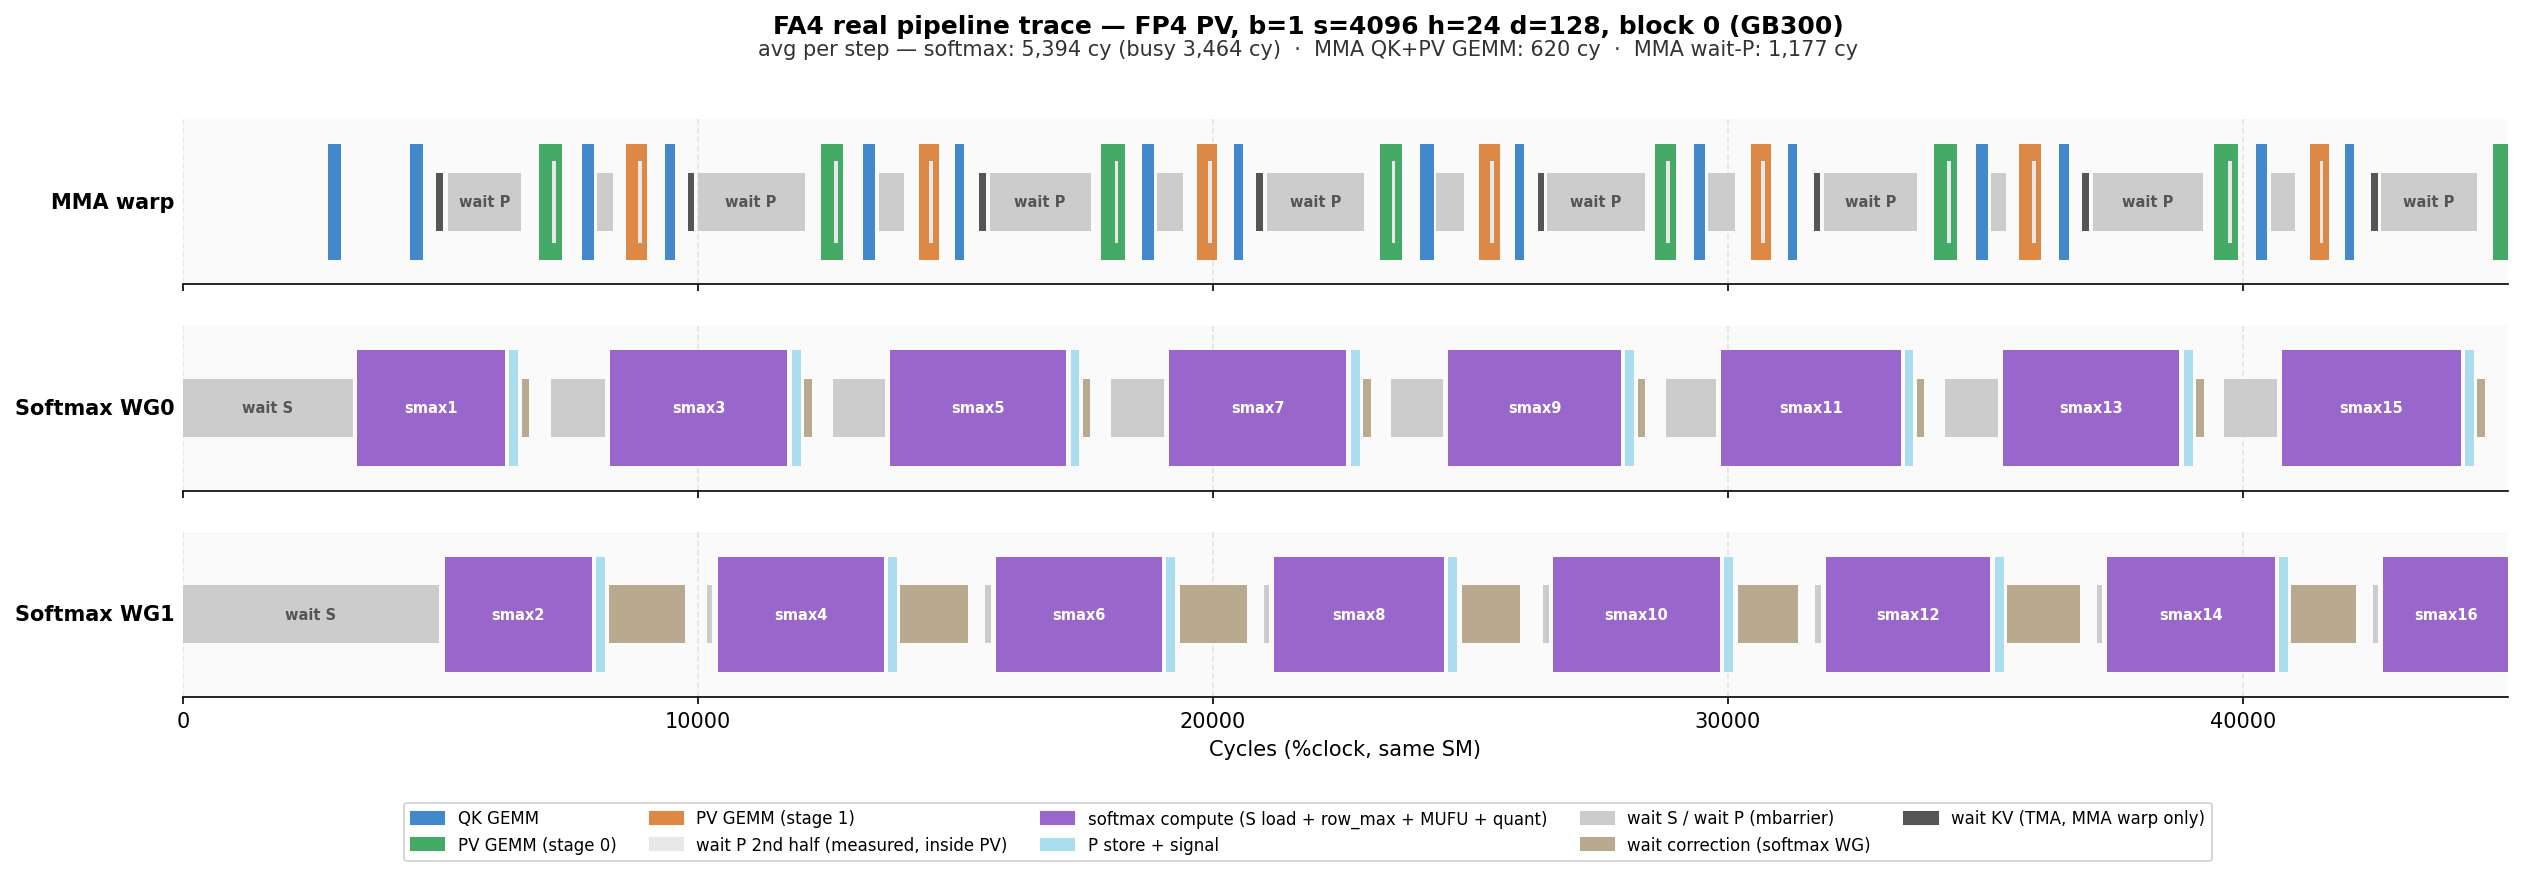
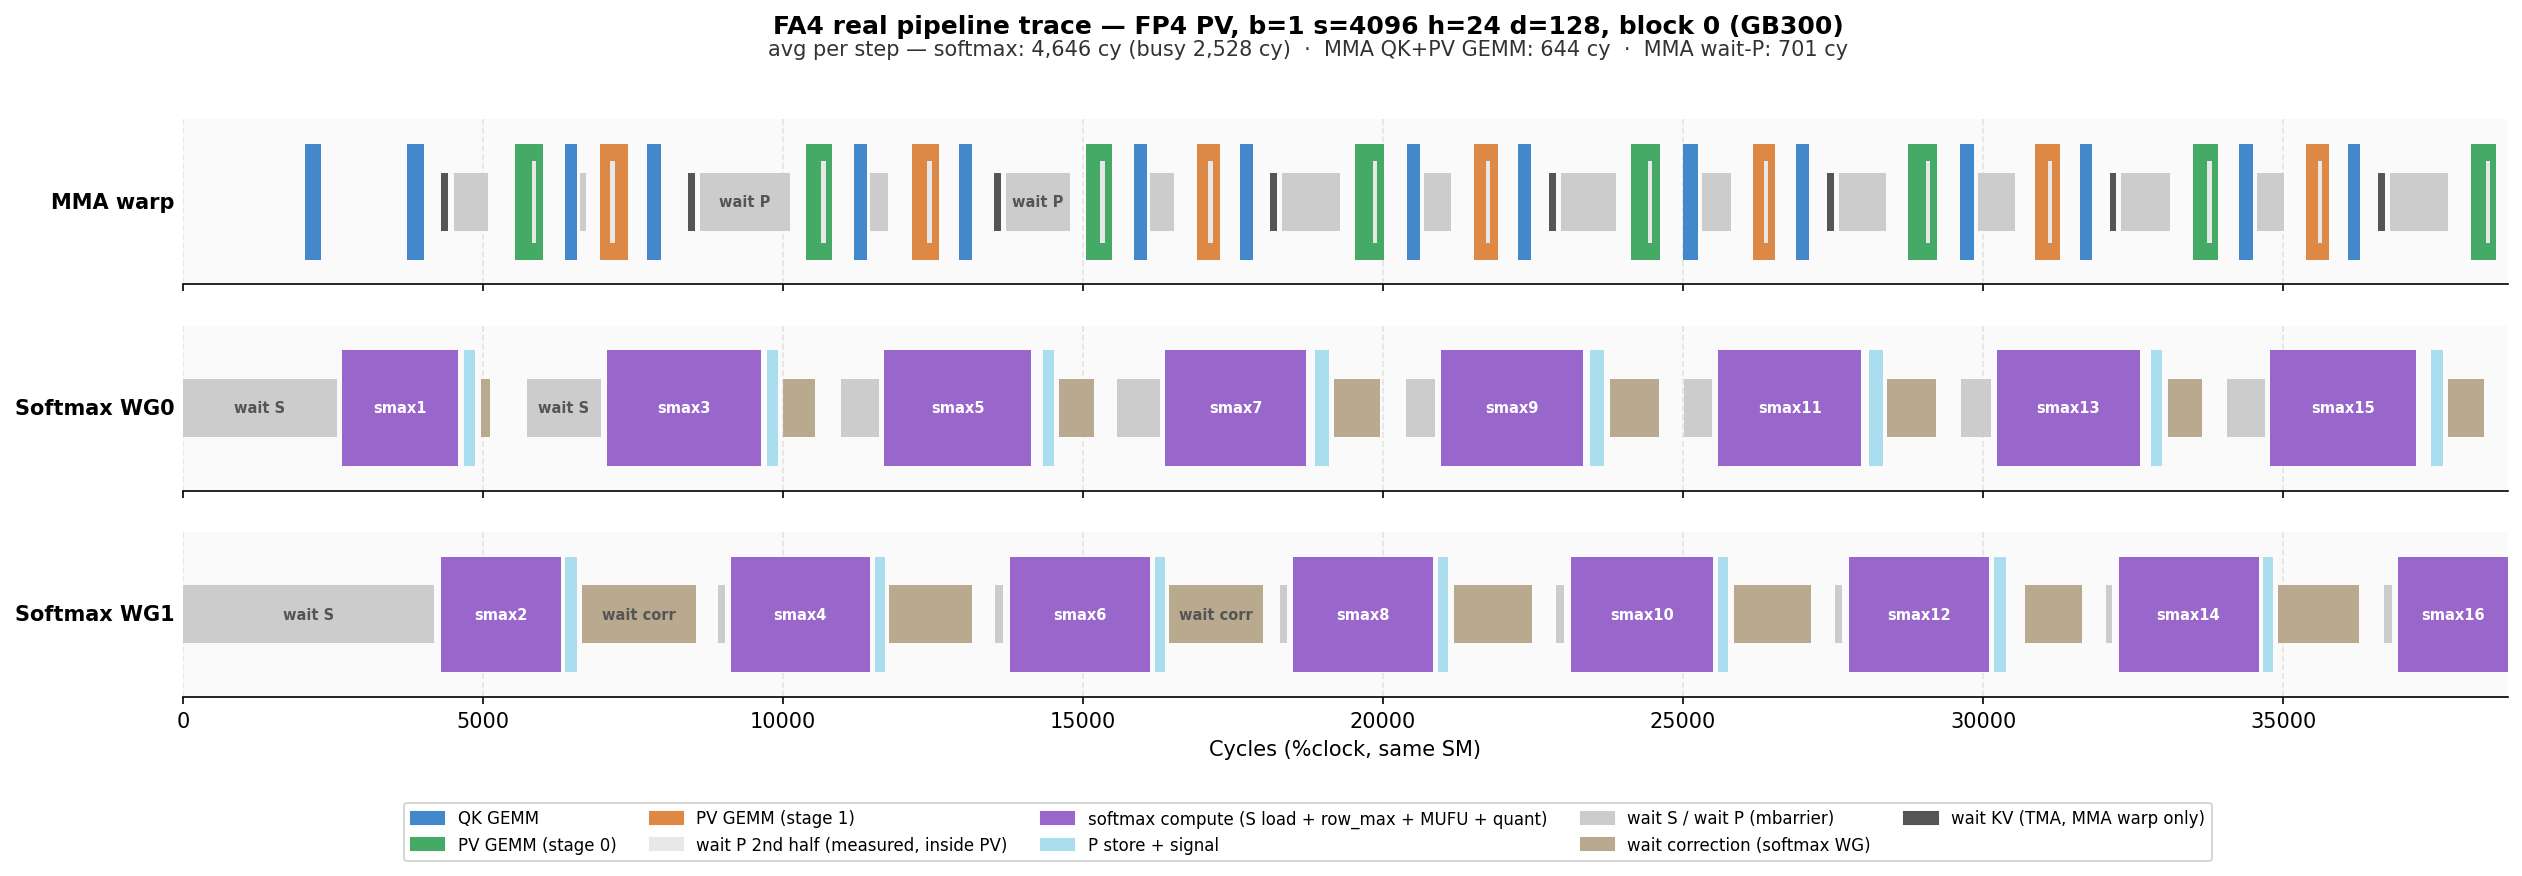
perf: log-domain FP4 quant (+15%) and FP8 P-split 3/4 (+21-24%) on GB300
FP4 PV (_fused_log2_group_quant, default on): exploit exp2 monotonicity to
take the group max on PRE-exp scores and fold the 1/group_max scale into
the exp2 argument — P_i = exp2(s_i - m_g + log2 6), SF_g = exp2(m_g -
log2 6). Deletes all 8 per-group divisions and the post-exp scaling pass,
and shortens the per-group dependency chain to max->sub->ex2. row_sum is
rebuilt as sum_g SF_g * partial_g. 1388 -> 1595 TF at s=32768; error vs
the FP32 reference identical to baseline.

FP8 PV: default P-handoff split raised from 1/2 (a B200 tuning) to 3/4 —
the first P_full now releases the PV MMA after 3/4 of P's store chunks,
matching BF16 PV's split. 1909 -> 2366 TF at s=32768, bitwise-identical;
FP8 PV now beats BF16 PV on B300. The softmax split fraction must stay >=
the GEMM pre_mbar fraction (1/4 violates it and crashes). FP4 split made
tunable too (FA4_FP4_PV_P_SPLIT_NUM/DEN, FA4_FP4_PV_TMEM_STORE_REP) but
is perf-neutral — kept at 1/2.

diff --git a/flash_attn/cute/flash_fwd_sm100_fp4.py b/flash_attn/cute/flash_fwd_sm100_fp4.py
@@ -311,6 +311,12 @@ class FlashAttentionForwardSm100:
         # EXPERIMENT: materialized cutlass.range loop over fragments for the
         # FP8 exp2+pack (0 = off; N = unroll factor; -1 = unroll_full).
         self.fp8_pv_range_unroll = int(os.getenv("FA4_FP8_PV_RANGE_UNROLL", "0"))
+        # Log-domain NVFP4 P quantization: group max on pre-exp scores, the
+        # 1/group_max scale folded into the exp2 argument — removes all
+        # per-group divisions and the post-exp scaling pass. Default ON:
+        # +8-15% FP4 PV on GB300 (1388 -> 1595 TF at s=32768) at identical
+        # measured accuracy vs the FP32 reference.
+        self.fp4_pv_log2_quant = os.getenv("FA4_FP4_PV_LOG2_QUANT", "1") == "1"
         # Pipeline-trace granularity (FA4_PROFILE_PIPELINE=1). Coarse (default)
         # records only at wait/store boundaries that are already side-effect
         # ordered, so the softmax compute stream contains no timestamps and
@@ -1056,10 +1062,16 @@ class FlashAttentionForwardSm100:
         self.mbar_sfpv_load_offset = self.mbar_sfqk_load_offset + self.q_stage
         self.mbar_total = self.mbar_sfpv_load_offset + self.q_stage
         # self.mbar_total = self.mbar_P_full_2_offset + self.q_stage
-        # Pure FP8 PV benefits from releasing P to the PV MMA earlier than the
-        # FP4 quantized path; keep env overrides for additional tuning sweeps.
-        fp8_pv_split_num = int(os.getenv("FA4_FP8_PV_P_SPLIT_NUM", "1"))
-        fp8_pv_split_den = int(os.getenv("FA4_FP8_PV_P_SPLIT_DEN", "2"))
+        # P handoff split: fraction of P store chunks (and matching PV MMA
+        # K-tiles) released at the first P_full signal; the rest go through
+        # P_full_2's embedded wait inside the PV GEMM.
+        # 3/4 measured best for FP8 PV on GB300: 1909 -> 2366 TF at s=32768
+        # (the old 1/2 default came from B200 tuning). BF16 PV already used
+        # 3/4; FP4 PV split is num/den of its store chunks (k//2 when only 2).
+        fp8_pv_split_num = int(os.getenv("FA4_FP8_PV_P_SPLIT_NUM", "3"))
+        fp8_pv_split_den = int(os.getenv("FA4_FP8_PV_P_SPLIT_DEN", "4"))
+        fp4_pv_split_num = int(os.getenv("FA4_FP4_PV_P_SPLIT_NUM", "1"))
+        fp4_pv_split_den = int(os.getenv("FA4_FP4_PV_P_SPLIT_DEN", "2"))
         fp8_pv_small_d = self.head_dim_v_padded <= 64
         self.mbar_p_split = lambda k: (
             max(
@@ -1072,7 +1084,10 @@ class FlashAttentionForwardSm100:
                 ),
             )
             if cutlass.const_expr(self.v_dtype.width == 8 and k > 1) else
-            ((k // 4 * 3) if cutlass.const_expr(self.v_dtype.width > 8) else k // 2)
+            (
+                (k // 4 * 3) if cutlass.const_expr(self.v_dtype.width > 8) else
+                max(1, min(k - 1, k * fp4_pv_split_num // fp4_pv_split_den))
+            )
         )
         sO_size = cute.cosize(sO_layout) if const_expr(not self.overlap_sO_sQ) else 1
         sQ_size = (
@@ -2704,6 +2719,9 @@ class FlashAttentionForwardSm100:
         tStScale_r2t = thr_tmem_store_scale.partition_D(tStScale)
         fp8_pv_store_rep = int(os.getenv("FA4_FP8_PV_TMEM_STORE_REP", "8"))
         fp8_pv_default_store_rep = 4 if self.head_dim_v_padded <= 64 else 8
+        # FP4 PV: smaller rep = more P store chunks = finer-grained P handoff
+        # to the PV MMA (combined with FA4_FP4_PV_P_SPLIT_NUM/DEN).
+        fp4_pv_store_rep = int(os.getenv("FA4_FP4_PV_TMEM_STORE_REP", "8"))
         tmem_store_atom = cute.make_copy_atom(
             tcgen05.copy.St32x32bOp(
                 tcgen05.copy.Repetition(
@@ -2711,7 +2729,7 @@ class FlashAttentionForwardSm100:
                         not self.quant_pv and self.v_dtype.width == 8 and "FA4_FP8_PV_TMEM_STORE_REP" in os.environ
                     ) else
                     fp8_pv_default_store_rep if const_expr(not self.quant_pv and self.v_dtype.width == 8) else
-                    8 if const_expr(self.quant_pv) else
+                    fp4_pv_store_rep if const_expr(self.quant_pv) else
                     16
                 )
             ),
@@ -3052,6 +3070,93 @@ class FlashAttentionForwardSm100:
                 )
 
         # 4. Pack SF values to UE4M3 (separate loop, small tensor)
+        tSrPSF_u32_view = cute.recast_tensor(tSrPSF, cute.Int32)
+        for i in cutlass.range_constexpr(0, cute.size(tSrPSF_f32) // 4):
+            tSrPSF_u32_view[i] = packed_float_to_ue4m3(
+                tSrPSF_f32[i * 4],
+                tSrPSF_f32[i * 4 + 1],
+                tSrPSF_f32[i * 4 + 2],
+                tSrPSF_f32[i * 4 + 3],
+            )
+
+        return tSrPSF_f32, tSrPSF
+
+    @cute.jit
+    def _fused_log2_group_quant(
+        self,
+        softmax: SoftmaxSm100,
+        tSrS: cute.Tensor,   # PRE-exp scaled scores (scale_subtract_rowmax done)
+        tSrP: cute.Tensor,   # fp4 view of the P r2t backing storage
+        acc_scale: Float32,
+        is_first: cutlass.Constexpr[bool],
+    ):
+        """Log-domain NVFP4 P quantization (FA4_FP4_PV_LOG2_QUANT=1).
+
+        Exploits exp2 monotonicity: max(exp2(s)) = exp2(max(s)). The group max
+        is taken on the PRE-exp scores and the 1/group_max scaling folds into
+        the exp2 argument:
+            m_g  = max_{i in g} s_i
+            P_i  = exp2(s_i - m_g + log2 6)   in (0, 6], group max exactly 6.0
+            SF_g = exp2(m_g - log2 6)         (== max(exp2 s)/6, as baseline)
+        vs the baseline exp-all -> group_max -> 1/x divide -> scale pass, this
+        removes all per-group divisions and the post-exp scaling pass, and
+        shortens the per-group dependency chain to max -> subtract -> exp2.
+        row_sum is rebuilt as sum_g SF_g * sum_{i in g} P_i — equal to
+        sum exp2(s_i) up to FP32 rounding (summation order differs, so output
+        is accuracy-equivalent but not bitwise vs baseline).
+        """
+        LOG2_6 = math.log2(6.0)
+        acc_S_frag = cute.logical_divide(tSrS, cute.make_layout(self.sf_vec_size))
+        num_groups = cute.size(acc_S_frag, mode=[1])
+        tSrP_frag = cute.logical_divide(tSrP, cute.make_layout(self.sf_vec_size))
+        tSrPSF_f32 = cute.make_rmem_tensor(cute.make_layout(num_groups), Float32)
+        tSrPSF = cute.make_rmem_tensor(tSrPSF_f32.layout, self.sf_dtype)
+
+        row_sum_acc = Float32(0.0)
+        for g in cutlass.range_constexpr(num_groups):
+            # Group max in log space; clamp so fully-masked groups (all -inf)
+            # don't produce NaN from (-inf) - (-inf) below.
+            m = softmax._compute_row_max(acc_S_frag[None, g].load())
+            bias = cute.arch.fmax(m, Float32(-100.0)) - LOG2_6
+
+            # exp2 with the group scale folded into the argument
+            for j in cutlass.range(0, self.sf_vec_size, 2, unroll_full=True):
+                acc_S_frag[j, g], acc_S_frag[j + 1, g] = utils.fma_packed_f32x2(
+                    (acc_S_frag[j, g], acc_S_frag[j + 1, g]),
+                    (Float32(1.0), Float32(1.0)),
+                    (-bias, -bias),
+                )
+            for j in cutlass.range_constexpr(0, self.sf_vec_size, 2):
+                acc_S_frag[j, g] = cute.arch.exp2(acc_S_frag[j, g])
+                acc_S_frag[j + 1, g] = cute.arch.exp2(acc_S_frag[j + 1, g])
+
+            sf = cute.arch.exp2(bias)
+            tSrPSF_f32[g] = sf
+            # Reconstruct this group's contribution to row_sum from the
+            # scaled values (P in (0, 6]) weighted back by SF.
+            row_sum_acc += sf * softmax._compute_row_sum(acc_S_frag[None, g].load())
+
+            # Quantize this group to E2M1
+            tSrP_u32_view = cute.recast_tensor(tSrP_frag[None, g], cute.Int32)
+            for k in cutlass.range_constexpr(0, cute.size(tSrP_u32_view, mode=[0])):
+                tSrP_u32_view[k] = packed_float_to_e2m1(
+                    acc_S_frag[k * 8, g],
+                    acc_S_frag[k * 8 + 1, g],
+                    acc_S_frag[k * 8 + 2, g],
+                    acc_S_frag[k * 8 + 3, g],
+                    acc_S_frag[k * 8 + 4, g],
+                    acc_S_frag[k * 8 + 5, g],
+                    acc_S_frag[k * 8 + 6, g],
+                    acc_S_frag[k * 8 + 7, g],
+                )
+
+        # row_sum update with the same rescale semantics as update_row_sum
+        if const_expr(is_first):
+            softmax.row_sum[0] = row_sum_acc
+        else:
+            softmax.row_sum[0] = softmax.row_sum[0] * acc_scale + row_sum_acc
+
+        # Pack SF values to UE4M3
         tSrPSF_u32_view = cute.recast_tensor(tSrPSF, cute.Int32)
         for i in cutlass.range_constexpr(0, cute.size(tSrPSF_f32) // 4):
             tSrPSF_u32_view[i] = packed_float_to_ue4m3(
@@ -3451,15 +3556,23 @@ class FlashAttentionForwardSm100:
         if const_expr(self.quant_pv):
             if const_expr(prof is not None and self.prof_detail):
                 prof_k = fa4_prof.prof_record(prof_buf, prof_bg, prof_stride, prof_tag, prof_k, fa4_prof.EVT_SOFTMAX_EXP, fa4_prof.EVENT_BEGIN, prof_pred)
-            # Exp2 with softmax scale and sp1 scaling
-            softmax.apply_exp2_convert(
-                tSrS_t2r,
-                e2e=self.force_e2e,
-                e2e_freq=self.e2e_freq,
-                    e2e_start_frg=self.e2e_start_frg,
+            fp4_log2_active = const_expr(
+                self.fp4_pv_log2_quant
+                and not self.force_e2e
+                and not self.fp4_pv_quant_store_pipeline
             )
-            # update_row_sum BEFORE scale_groupwise so it uses original P values
-            softmax.update_row_sum(tSrS_t2r.load(), acc_scale, is_first)
+            if const_expr(not fp4_log2_active):
+                # Exp2 with softmax scale and sp1 scaling
+                softmax.apply_exp2_convert(
+                    tSrS_t2r,
+                    e2e=self.force_e2e,
+                    e2e_freq=self.e2e_freq,
+                    e2e_start_frg=self.e2e_start_frg,
+                )
+                # update_row_sum BEFORE scale_groupwise so it uses original P values
+                softmax.update_row_sum(tSrS_t2r.load(), acc_scale, is_first)
+            # else: exp2, row_sum and quant are all fused in
+            # _fused_log2_group_quant below.
             if const_expr(prof is not None and self.prof_detail):
                 prof_k = fa4_prof.prof_record(prof_buf, prof_bg, prof_stride, prof_tag, prof_k, fa4_prof.EVT_SOFTMAX_EXP, fa4_prof.EVENT_END, prof_pred)
                 prof_k = fa4_prof.prof_record(prof_buf, prof_bg, prof_stride, prof_tag, prof_k, fa4_prof.EVT_SOFTMAX_QUANT, fa4_prof.EVENT_BEGIN, prof_pred)
@@ -3471,6 +3584,10 @@ class FlashAttentionForwardSm100:
                     thr_tmem_store, sSFP, thr_tmem_load, mbar_ptr, stage,
                 )
                 tSrPSF_f32, tSrPSF = None, None
+            elif const_expr(fp4_log2_active):
+                tSrPSF_f32, tSrPSF = self._fused_log2_group_quant(
+                    softmax, tSrS_t2r, tSrP_r2t, acc_scale, is_first,
+                )
             else:
                 tSrPSF_f32, tSrPSF = self._fused_group_max_scale_quant(
                     softmax, tSrS_t2r, tSrP_r2t,

diff --git a/flash_attn/cute/debug/b300_fp4_pv_analysis.md b/flash_attn/cute/debug/b300_fp4_pv_analysis.md
@@ -10,17 +10,19 @@
 
 B300 (SM 10.3) doubles MUFU.EX2 throughput (32 ops/clock/SM vs 16 on SM100).
 This makes exp2 no longer the softmax co-bottleneck. The benefit depends on
-the PV mode:
+the PV mode. After the June-11 optimizations (log-domain FP4 quant + P-split
+3/4 for FP8, both default-on; see "Two Optimizations That Worked"):
 
-| PV Mode | B300 TF | vs BF16 ref | B200 TF | B200 vs BF16 ref |
-|---------|---------|-------------|---------|------------------|
-| BF16    | 2142    | 1.37x       | ~1887   | 1.22x            |
-| FP8     | 1824    | 1.17x       | 2018    | 1.31x            |
-| FP4     | 1340    | 0.86x       | ~1310   | ~0.85x           |
-| BF16 ref| 1561    | 1.00x       | 1545    | 1.00x            |
+| PV Mode | B300 TF (s=32768) | before | gain  |
+|---------|-------------------|--------|-------|
+| BF16    | 2069-2142         | same   | —     |
+| FP8     | **2306-2369**     | 1909   | +21-24% |
+| FP4     | **1595**          | 1388   | +15%  |
 
-Shape: b=1, s=4096, h=24, d=128 (BF16 ref uses non-FP4 QK).
-Peak numbers (s=32768): BF16 PV 2142 TF, FP8 PV 1774 TF, FP4 PV 1340 TF.
+FP8 PV now beats BF16 PV on B300 (it previously lost, 1909 vs 2142),
+restoring the B200-style ordering. Earlier baseline numbers
+(b=1 s=4096 h=24 d=128, BF16 ref = non-FP4 QK at 1561 TF / 1.00x):
+BF16 PV 2142 (1.37x), FP8 PV 1824 (1.17x), FP4 PV 1340 (0.86x).
 
 **Key finding**: On B300, exp2 is no longer the bottleneck for any PV mode.
 The new bottlenecks are:
@@ -339,9 +341,50 @@ as a scheduling barrier and prevents ptxas from interleaving the baseline.
 The clean kernels are identical. Do not tune from instrumented runs alone.
 
 The remaining FP8/FP4 PV gap is therefore raw issue-slot count on the
-cvt/MUFU/ALU ports, not scheduling. Real improvement options:
-- Fewer instructions: coarser SF groups (fewer group_max FMNMX), approximate
-  group_max, packed-max if a 2-wide min/max op exists on SM103.
+cvt/MUFU/ALU ports, not scheduling — which pointed at instruction
+ELIMINATION and pipeline-handoff tuning instead of reordering. Both paid
+off (next section).
+
+## Two Optimizations That Worked (June 11, default-on)
+
+### 1. FP4 PV: log-domain group quantization (+15%)
+
+`_fused_log2_group_quant` (`FA4_FP4_PV_LOG2_QUANT=1`, default). The baseline
+quantized P as: exp2 all elements → per group: max → 1/x divide →
+multiply-scale pass → E2M1 cvt. Using exp2 monotonicity
+(`max(exp2 s) = exp2(max s)`), the group max moves to the PRE-exp scores and
+the scale folds into the exp2 argument:
+
+    m_g  = max(s_i)                      (same FMNMX count)
+    P_i  = exp2(s_i - m_g + log2 6)      (subtract replaces the scale pass)
+    SF_g = exp2(m_g - log2 6)            (1 extra ex2; == max(exp2 s)/6)
+
+This deletes all 8 per-group `div.rn.f32` sequences (RCP + Newton FFMAs)
+and the 64-FFMA post-exp scaling pass, and shortens the per-group dependency
+chain from max→rcp→fma→cvt to max→sub→ex2. row_sum is rebuilt as
+`sum_g SF_g * partial_g` (same value up to FP32 summation order). Measured:
+1388 → 1595 TF at s=32768 (+15%), +8-9% at s=4096/8192, with error vs the
+FP32 reference identical to baseline to all printed digits.
+
+### 2. FP8 PV: P-handoff split 3/4 instead of 1/2 (+21-24%)
+
+The first `mbar_P_full` signal releases the PV MMA after a fraction of P's
+store chunks; the rest go through the embedded P_full_2 wait. The FP8
+default (1/2, a B200 tuning) was far too early-release-biased for B300:
+raising it to 3/4 (`FA4_FP8_PV_P_SPLIT_NUM/DEN`, now the default — same
+fraction BF16 PV always used) gives 1909 → 2366 TF at s=32768 and
+1521 → 1812 at s=4096, bitwise-identical outputs. FP8 PV now beats BF16 PV
+on B300. Note the safety contract: the softmax-side split fraction must be
+>= the GEMM-side pre_mbar fraction (both derive from `mbar_p_split`); 1/4
+violates it for FP8's K-tile count and crashes (illegal access). FP4 is
+insensitive to the split (PV GEMM too cheap for handoff latency to bind;
+tested 1/2, 3/4, 7/8 with store rep 8/4/2 — all ~1595 TF, rep 4 worse).
+
+Also: with the new defaults the FP4 nondeterminism repro went 1/20 → 0/20
+mismatches; possibly timing-masked rather than fixed — keep watching.
+
+Remaining (unexplored) improvement options:
+- Coarser SF groups (fewer group_max FMNMX) — accuracy trade-off.
 - Move quant work to the underutilized correction WG (requires a register →
   TMEM/SMEM round-trip of P — likely costs more than it saves).
 - Hardware-assisted E2M1 packing (future arch).
